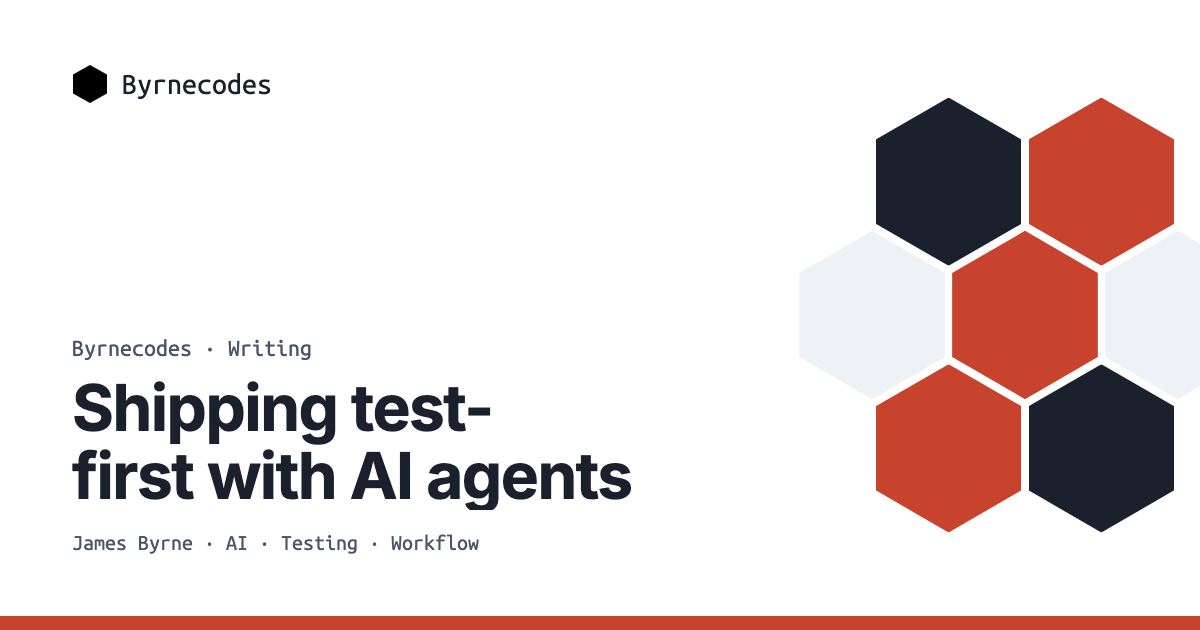
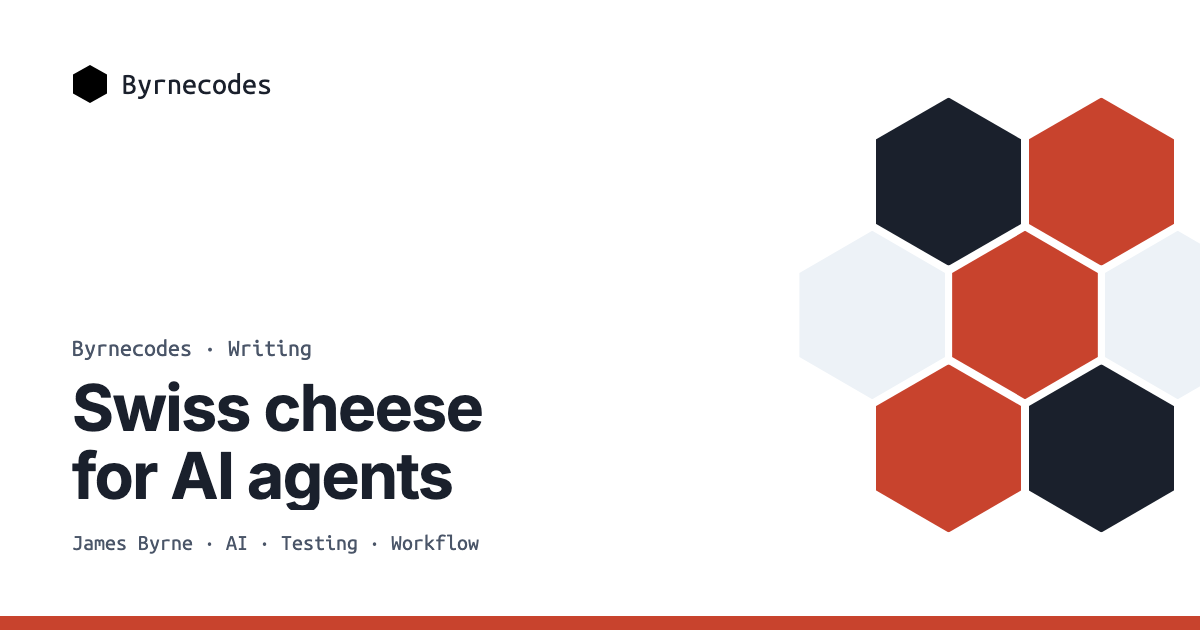
content: publish Swiss cheese for AI agents
The test-first draft becomes the overview of the AI delivery series:
five slices (card and plan, hook, review, simulator, me), a Swiss cheese
diagram, the store-load story, numbers framed as a prototype's, and a
contact offer. New share card for the new title.

Tests that assumed Jan 2020 was the newest post now include it, and the
'2026' leak guard becomes a check that no draft is published.

Changed region(s): [[0.0617, 0.6032, 0.5242, 0.8143]]

diff --git a/_posts/2026-11-16-test-first-delivery-with-ai-agents.md b/_posts/2026-11-16-test-first-delivery-with-ai-agents.md
@@ -1,0 +1,77 @@
+---
+layout: blog_post
+title: "Swiss cheese for AI agents"
+description: "How I build Bogha with AI coding agents: five layers of checks with holes in different places, so a mistake only ships if every hole lines up."
+topics: [AI, Testing, Workflow]
+image: /assets/img/social/test-first-delivery-with-ai-agents.png
+---
+
+## The problem with fast
+
+AI coding agents are fast. Give one a vague request and it will happily write a few hundred lines, tell you it's done, and be wrong in ways you won't notice until a user does. Speed isn't the hard part any more. Knowing the change is right is.
+
+So for Bogha, my archery training app for iPhone and Apple Watch, I stopped asking "how do I get the agent to write more?" and started asking "what would make me trust what it writes?"
+
+## Swiss cheese
+
+My answer is borrowed from aviation safety. The Swiss cheese model treats every defence as a slice of cheese. Each slice has holes, and things only go wrong when the holes in every slice line up. You don't need a perfect slice. You need enough slices with their holes in different places.
+
+Every step in how I build Bogha is a slice. At each one, either I or the agent gets a chance to catch a mistake, fix the context the agent is working from, or correct an assumption before it turns into code. No single step is trusted on its own: not the tests, not the review, not even me.
+
+<div class="flex justify-center my-6">
+  <img src="/assets/img/blog-posts/test-first-delivery-with-ai-agents/swiss-cheese.svg" width="640" height="360" alt="Swiss cheese diagram: five slices labelled card and plan, hook, review, simulator and me, each with holes in different places. Three mistakes are stopped at the first, second and fourth slices. A fourth gets through only because a hole in every slice lines up." />
+</div>
+
+Stack enough of them and the pipeline can build complex features, as long as what goes in at the top is right. Here are the slices, in order.
+
+## Slice 1: the card and the plan
+
+Every piece of work is a card: a small markdown file with a type, a status and a link to its spec. An agent picks up the top ready card, writes a plan, and stops. Nothing gets built until I've read the plan and said yes.
+
+The exception is small, well-defined cards that almost certainly don't need me at the plan stage. Those can run unattended in a batch, which is a post of its own.
+
+The card is the unit of everything: one card per branch, and commits carry a `Card:` trailer so I can find a card's whole history later. When a defect turns up halfway through, it doesn't get fixed quietly in the same branch. It gets its own card.
+
+## Slice 2: a hook that says no
+
+The rule that changed the most is the simplest: **no production code without a failing test first.**
+
+Agents are very good at agreeing with a rule and then not following it, so I don't ask. A hook refuses any edit to production Swift until a test file has changed since the last commit. A commit that touches production code without a test needs an explicit `No-Test:` reason in its message, and that reason gets logged on the card.
+
+Every bug fix comes with a regression test, and the test has to be proven: put the bug back, watch the test fail, take it out again.
+
+## Slice 3: review
+
+Once the build is done, a review pass checks the branch against the project's own rules: the domain docs, the spec, and the shapes the codebase already uses. It fixes what it safely can, test-first, and stops to ask about the rest.
+
+## Slice 4: the simulator
+
+Then the agent runs the app on a simulator, works through the checks listed for the change, and gives me a verdict: low risk and fine to merge, or needs a real device.
+
+## Slice 5: me
+
+Either way the call is mine. When the verdict says a real device is needed, I get a short checklist of only what the simulator couldn't prove, and I work through it on my phone, and on my watch when the change touches it. Only my answer merges a card.
+
+## What a hole looks like
+
+Passing tests aren't proof the app works. Bogha syncs through SwiftData and CloudKit, and in September a change renamed a stored property. It compiled, passed both test suites, and then failed to open every existing store. The tests never saw it because they start from an empty in-memory store. The iPhone app quietly fell back to one too and looked healthy; only the watch crashed.
+
+The tests had a hole. The plan didn't: it said to open the app over data saved by the old version, and that caught it before it merged. That's now a rule for every schema change, and QA treats any change to the model or sync code as high risk, so it needs a real device before it merges.
+
+## What the numbers say, and what they don't
+
+In the eight weeks since I started working this way, Bogha has shipped 166 cards: 34 features, 40 defects, and the rest chores and QA. Most features shipped within a day of being started. Device QA sent three cards back, and none of the three was a bug: each time, I'd changed my mind about what I wanted once I had it in my hand.
+
+That reads like a success story. It isn't one yet. Bogha is an unreleased prototype that I build in my spare time, so QA has been lenient, and nothing in the pipeline checks design or UX well enough. The code works, but the features don't always fit together and parts of it need a refactor. The slices are good at making sure what gets built works. They can't tell me whether it was the right thing to build. That's a post of its own.
+
+## What I'd tell you to steal
+
+- Don't trust any single check, including yourself. Stack them.
+- Make the unit of work small and written down before any code exists.
+- Enforce rules with tooling, not with a prompt.
+- Treat "the tests pass" as necessary, not sufficient: run the real thing.
+- Keep the merge decision human.
+
+None of these slices are specific to Bogha, but the way they fit together is. Bogha isn't deployed when a branch merges, so a card can wait for me. A web service that deploys on every push has no such gap, and its checks have to finish before the merge. A product with real users needs a design slice I don't have yet. The pipeline has to fit the project and how it ships.
+
+If your team is bringing agents into how it builds software, or already has and isn't sure it can trust what ships, [get in touch](#contact-heading). I can set up a pipeline that fits your stack, or review the one you have.
